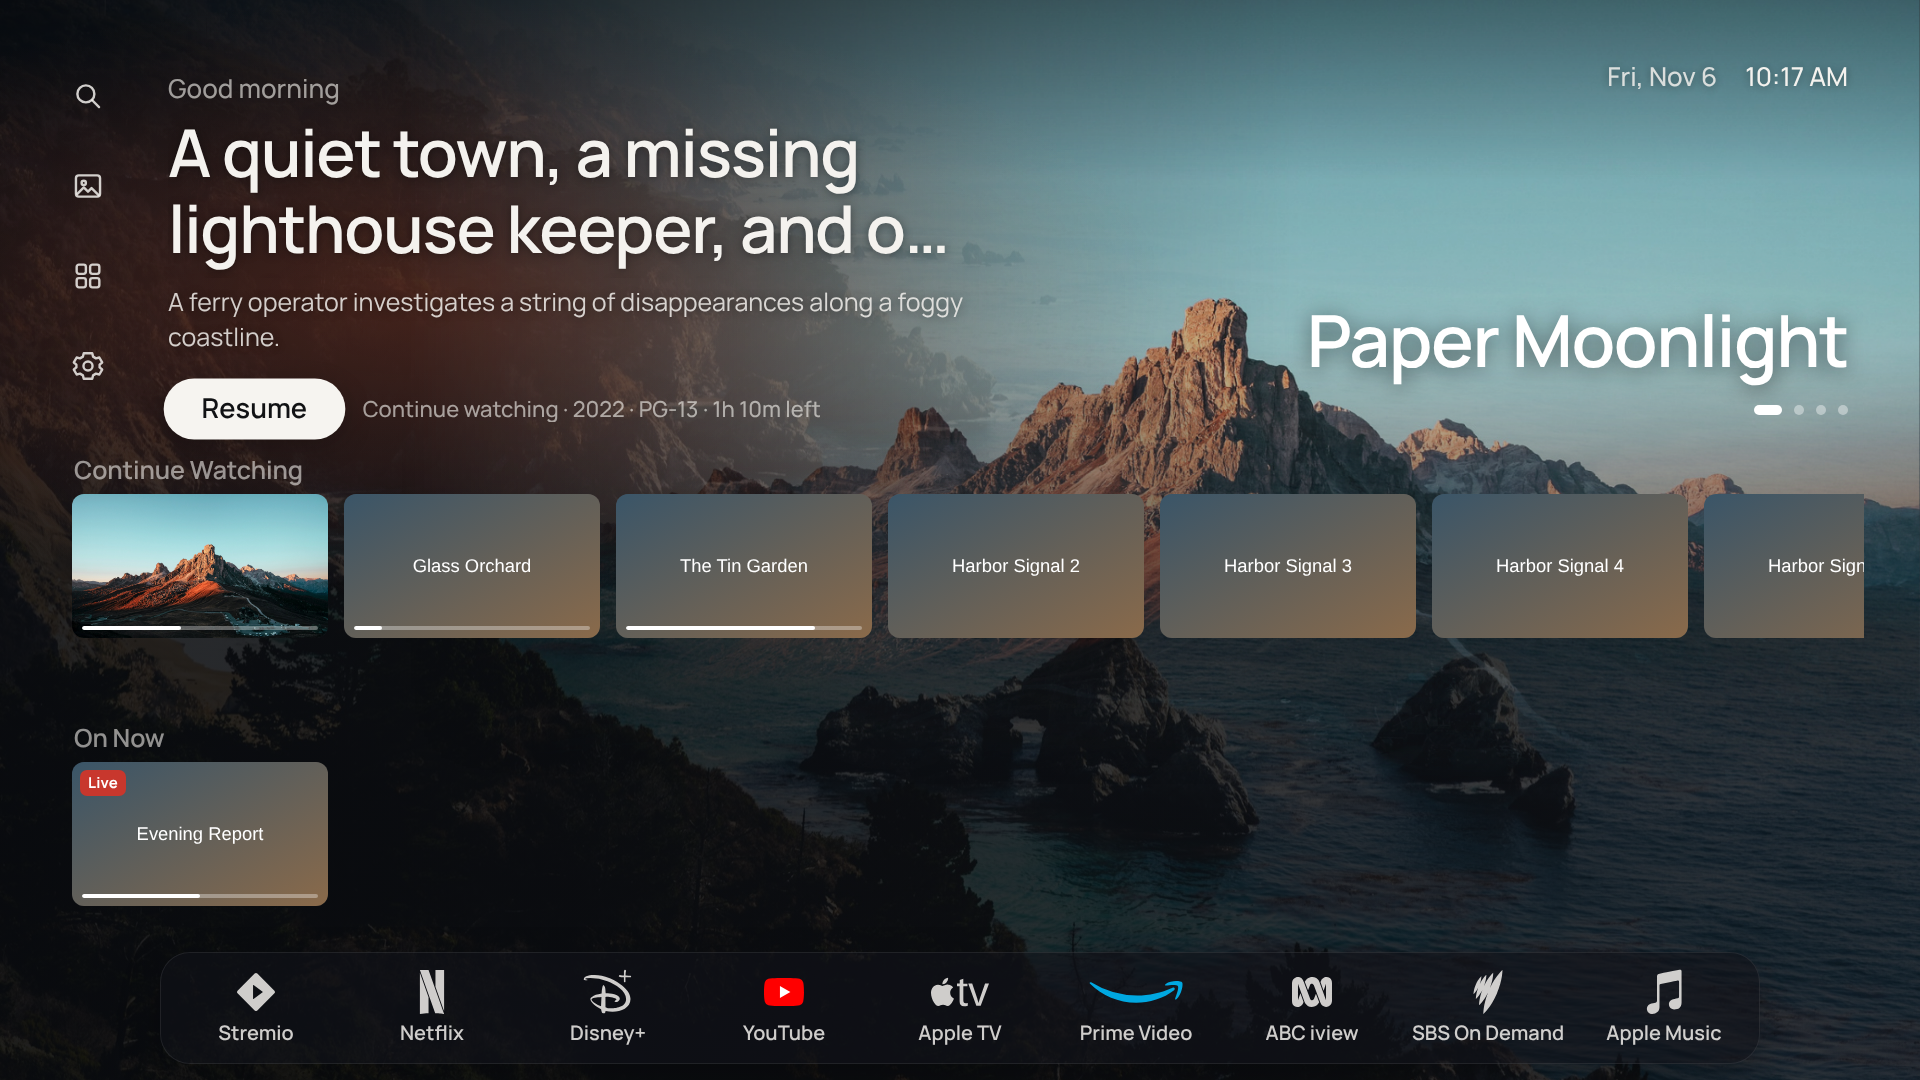
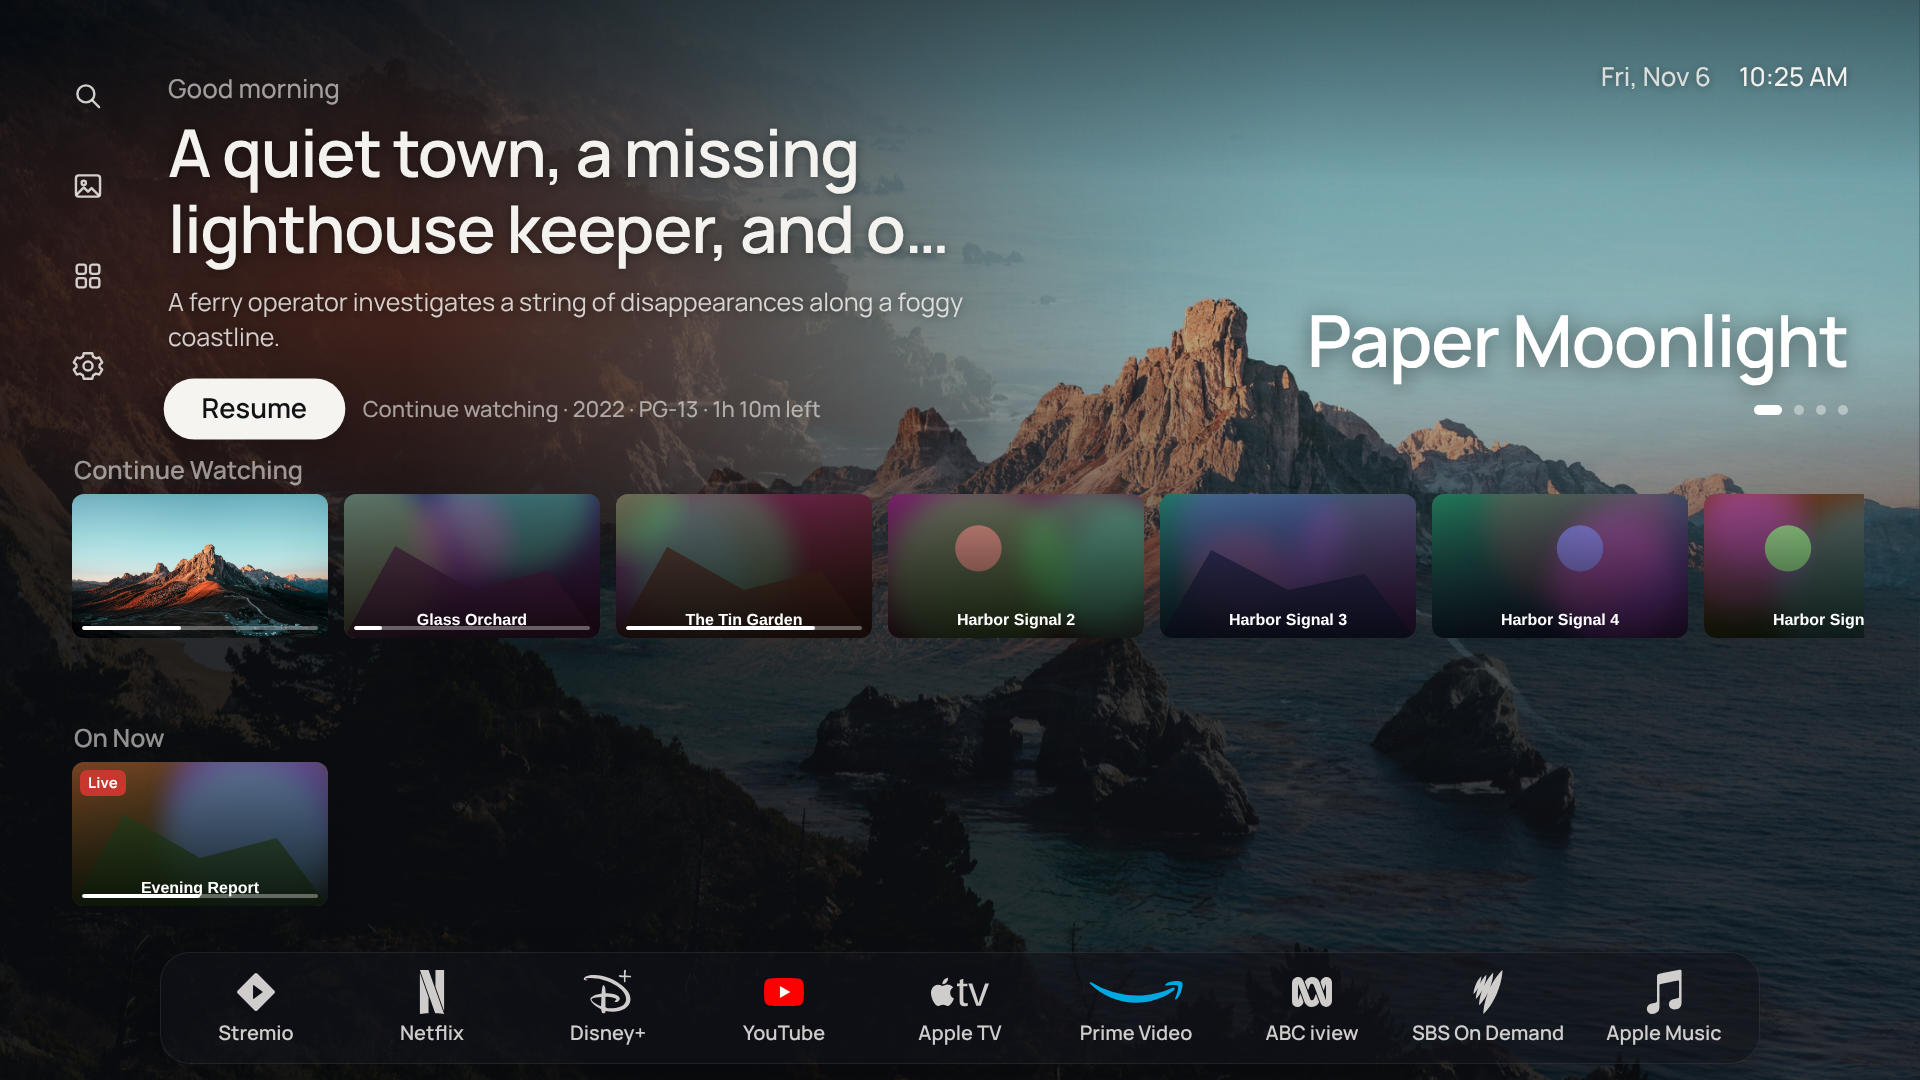
Generate abstract poster/thumb art instead of flat placeholders
The screenshot generator's card art was a flat gradient rectangle with
plain text, which read as an obvious debug placeholder rather than
poster/thumbnail art. Replace it with small procedurally generated
abstract compositions (seeded per title, so each is unique but
reproducible across runs) — soft blurred color fields plus a sunburst
or mountain silhouette, with the title set over a bottom scrim like a
real poster/thumbnail treatment. Still entirely generated: no photo,
drawing or logo is used or referenced.

Claude-Session: https://claude.ai/code/session_015E4ofNEU1xuZzHLetHgZjo

Changed region(s): [[0.1562, 0.4583, 0.9688, 0.6111], [0.0312, 0.7028, 0.1875, 0.8556], [0.8125, 0.0611, 0.9375, 0.0917]]

diff --git a/docs/screenshots/README.md b/docs/screenshots/README.md
@@ -11,7 +11,7 @@ Captured by [`scripts/generate-readme-screenshots.mjs`](../../scripts/generate-r
 - Titles: "Paper Moonlight", "Glass Orchard", "The Tin Garden", "Harbor Signal", "Low Tide Harbor", "Program 1"–"Program 14".
 - Sports: the invented "River City Hockey League" (Rockets, Comets) and "Coastal Baseball League", on the invented channel "Metro Sports Network".
 - People (request screen): invented cast and crew names, not real actors or directors.
-- Posters and backdrops are either generated placeholder art or the project's own bundled wallpaper photos (already covered by the [asset records](../asset-sources.md)) — never a real poster or still.
+- Posters and thumbnails are procedurally generated abstract art (seeded per title, so each one is unique but reproducible) — no photo, drawing or logo is used or referenced. Hero backdrops are the project's own bundled wallpaper photos (already covered by the [asset records](../asset-sources.md)) — never a real still.
 
 The app-launcher dock in these screenshots still shows real installed-app icons (Netflix, Disney+, etc.), consistent with `docs/images/cleanframe-dock.jpg` above: that's Lobby's own home-screen feature working as intended, not media content.
 
